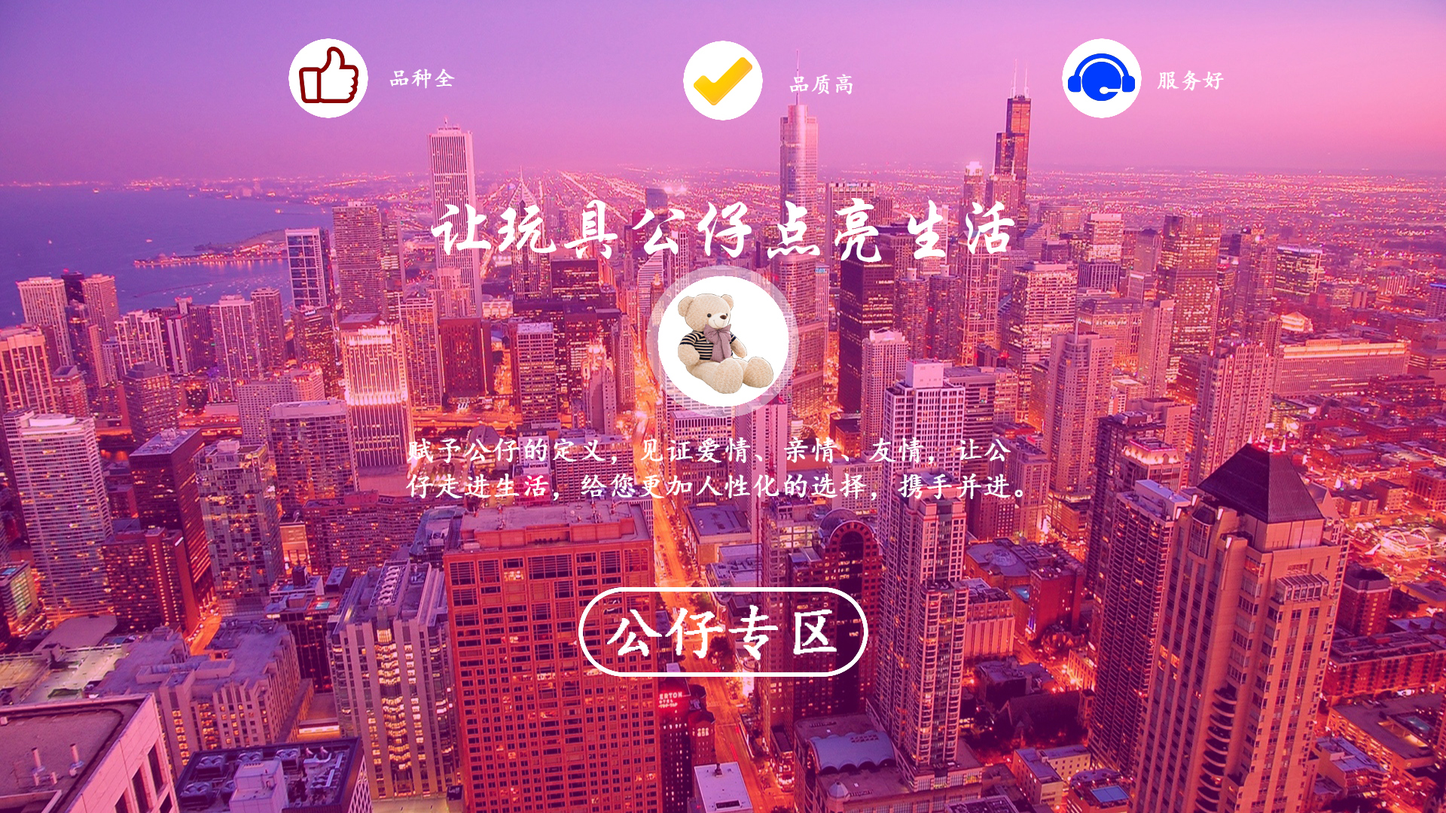
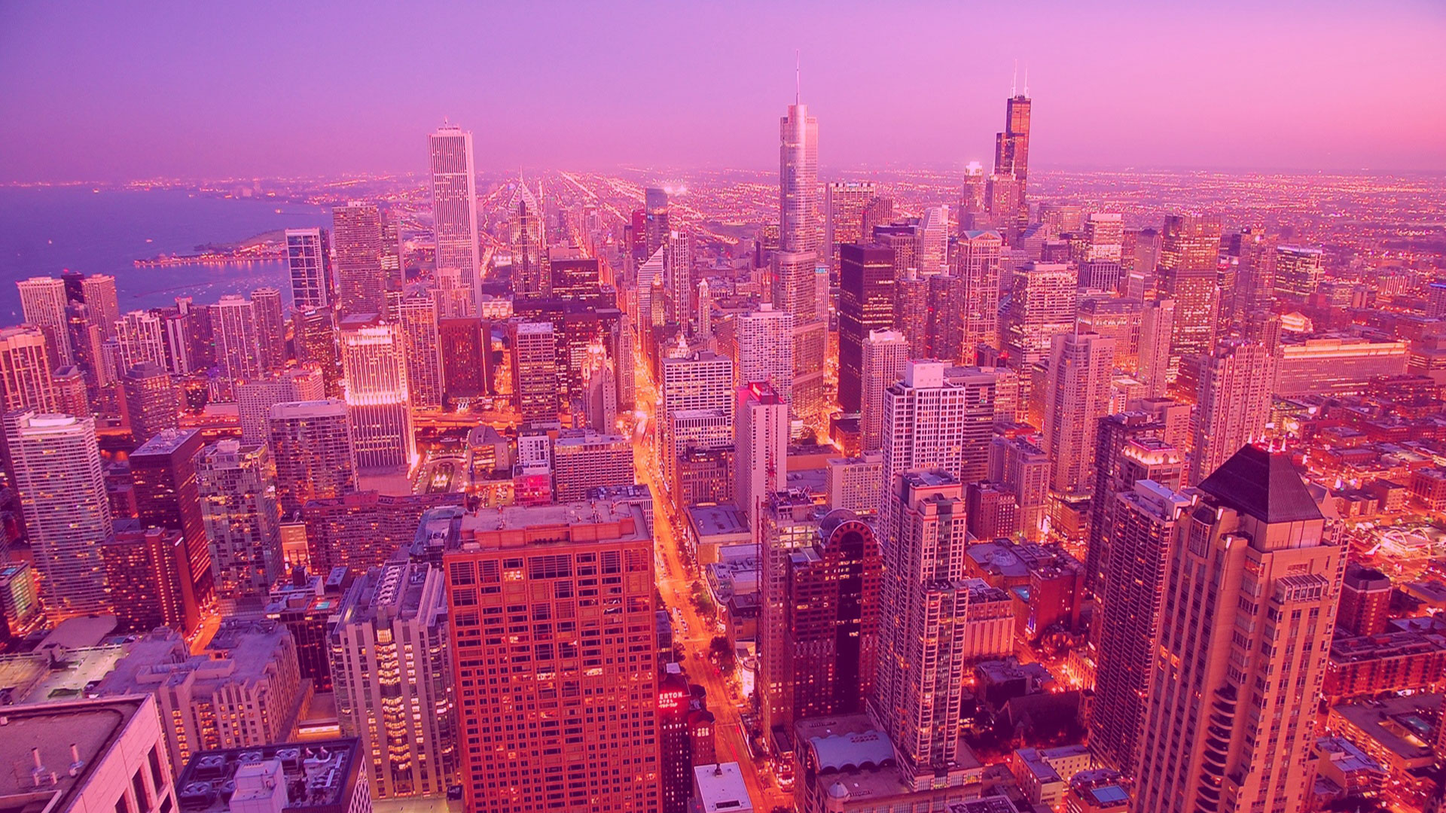
doll

diff --git a/src/pages/Doll/DollPage.vue b/src/pages/Doll/DollPage.vue
@@ -1,30 +1,30 @@
 <template>
-  <div class="year-container">
-      <img class="carousel-img" src="../../assets/img/c-year.jpg">
-        <div class="year-content">
-            <div class="year-header">
+  <div class="doll-container">
+      <img class="carousel-img" src="../../assets/img/c-doll.jpg">
+        <div class="doll-content">
+            <div class="doll-header">
                 <Row>
                 <Col span="8" class="head-info">
-                    <img class="head-logo" src="../../assets/img/year-logo1.png">
-                    <span class="head-value">个性理念</span>
+                    <img class="head-logo" src="../../assets/img/doll-logo1.png">
+                    <span class="head-value">每一次，都是用心之作</span>
                 </Col>
                 <Col span="8" class="head-info">
-                    <img class="head-logo" src="../../assets/img/year-logo2.png">
-                    <span class="head-value">创意新颖</span>
+                    <img class="head-logo" src="../../assets/img/doll-logo2.png">
+                    <span class="head-value">定制属于自己的婚礼</span>
                 </Col>
                 <Col span="8" class="head-info">
-                    <img class="head-logo" src="../../assets/img/year-logo3.png">
-                    <span class="head-value">强大设计团队</span>
+                    <img class="head-logo" src="../../assets/img/doll-logo3.png">
+                    <span class="head-value">定制属于自己的婚礼</span>
                 </Col>
                 </Row>
             </div>
-            <h1 class="year-title">您的新年礼品定制专家</h1>
-            <div class="year-logo-bg">
-                <img class="year-logo" src="../../assets/img/year-logo.png">
+            <h1 class="doll-title">让玩具公仔点亮生活</h1>
+            <div class="doll-logo-bg">
+                <img class="doll-logo" src="../../assets/img/doll-logo.png">
             </div>  
-            <p class="year-desc">新年吉祥物定制是富迪礼品的重头戏，多年设计产品均为爆款，众多企业新年吉祥物的年会礼品。</p> 
-            <div class="year-bottom">
-                <Button class="year-button" @click="toRouter(`/year`)">年会礼品</Button>
+            <p class="doll-desc">赋予公仔的定义，见证爱情、亲情、友情，让公仔走进生活，给您更加人性化的选择，携手并进。</p> 
+            <div class="doll-bottom">
+                <Button class="doll-button" @click="toRouter(`/doll`)">公仔专区</Button>
             </div>
         </div>
   </div>
@@ -46,7 +46,7 @@ export default {
 };
 </script>
 <style lang="scss" scoped>
-.year-container {
+.doll-container {
     width: 100%;
     height: 100%;
     position: relative;
@@ -56,11 +56,11 @@ export default {
         max-width: 100%;
         max-height: 100%;
     }
-    .year-content {
+    .doll-content {
         position: absolute;
         position: absolute;
-        width: 60%;
-        left: 20%;
+        width: 64%;
+        left: 18%;
         top: 0;
         .head-info {
             padding: 0.5rem 0.25rem;
@@ -78,13 +78,13 @@ export default {
                 font-size: 0.2rem;
             }
         }
-        .year-title {
+        .doll-title {
             color: #fff;
             font-family: "STXingkai";
             font-size: 0.8rem;
             text-align: center;
         }
-        .year-logo-bg {
+        .doll-logo-bg {
             width: 1.8rem;
             height: 1.8rem;
             background: rgba(255, 255, 255, 0.5);
@@ -92,14 +92,14 @@ export default {
             margin: 0 auto;
             margin-top: 0.25rem;
             margin-bottom: 0.25rem;
-            .year-logo {
+            .doll-logo {
                 width: 1.5rem;
                 height: 1.5rem;
                 margin: 0.15rem 0.15rem;
             }
         }
-        .year-desc {
-            width: 7.4rem;
+        .doll-desc {
+            width: 7.5rem;
             text-align: center;
             margin: 0 auto;
             color: #fff;
@@ -108,11 +108,11 @@ export default {
             font-weight: bold;
             padding: 0.25rem 0.25rem;
         }
-        .year-bottom {
+        .doll-bottom {
             width: 2.8rem;
             height: 1rem;
             margin: 0 auto;
-            .year-button {
+            .doll-button {
             width: 100%;
             height: 100%;
             font-family: "STKaiti";

diff --git a/src/pages/Home/Home.vue b/src/pages/Home/Home.vue
@@ -24,6 +24,7 @@
                 <wedding-page></wedding-page>
             </CarouselItem>
             <CarouselItem>
+                <doll-page></doll-page>
             </CarouselItem>
             <CarouselItem>
             </CarouselItem>
@@ -38,10 +39,11 @@ import CustomPage from '../Custom/CustomPage'
 import YearPage from '../Year/YearPage'
 import HousePage from '../House/HousePage'
 import WeddingPage from '../Wedding/WeddingPage'
+import DollPage from '../Doll/DollPage'
 export default {
   data() {
     return {
-      value: 0,
+      value: 5,
       settings: {
         autoplay: false,
         autoplaySpeed: 6000,
@@ -57,7 +59,8 @@ export default {
     'custom-page': CustomPage,
     'year-page': YearPage,
     'house-page': HousePage,
-    'wedding-page': WeddingPage
+    'wedding-page': WeddingPage,
+    'doll-page': DollPage
   }
 };
 </script>

diff --git a/src/pages/Custom/CustomPage.vue b/src/pages/Custom/CustomPage.vue
@@ -64,8 +64,8 @@ export default {
                 padding: 0.5rem 0.25rem;
                 float: left;
                 .company-logo {
-                    width: 0.8rem;
-                    height: 0.8rem;
+                    width: 0.6rem;
+                    height: 0.6rem;
                     vertical-align: middle;
                 }
                 .company-value {

diff --git a/src/pages/House/HousePage.vue b/src/pages/House/HousePage.vue
@@ -66,8 +66,8 @@ export default {
             padding: 0.5rem 0.25rem;
             float: left;
             .head-logo {
-                width: 0.8rem;
-                height: 0.8rem;
+                width: 0.6rem;
+                height: 0.6rem;
                 vertical-align: middle;
             }
             .head-value {

diff --git a/src/pages/Wedding/WeddingPage.vue b/src/pages/Wedding/WeddingPage.vue
@@ -62,8 +62,8 @@ export default {
             padding: 0.5rem 0.25rem;
             float: left;
             .head-logo {
-                width: 0.8rem;
-                height: 0.8rem;
+                width: 0.6rem;
+                height: 0.6rem;
                 vertical-align: middle;
             }
             .head-value {
